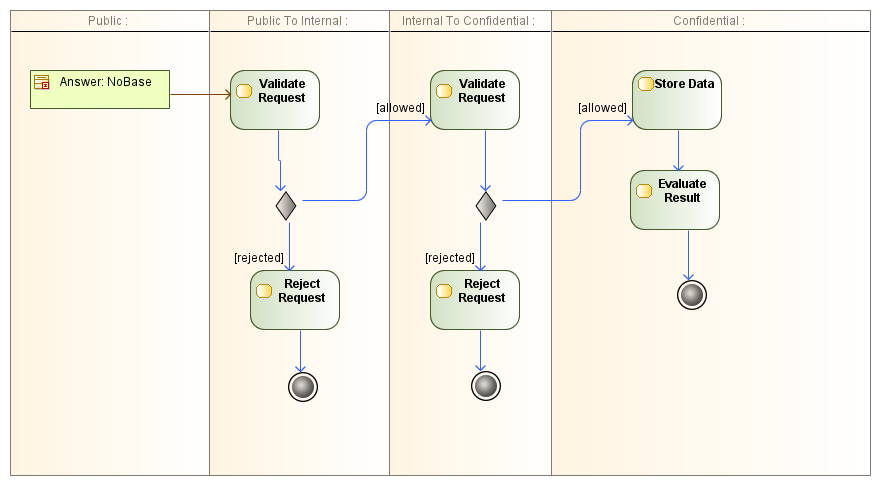
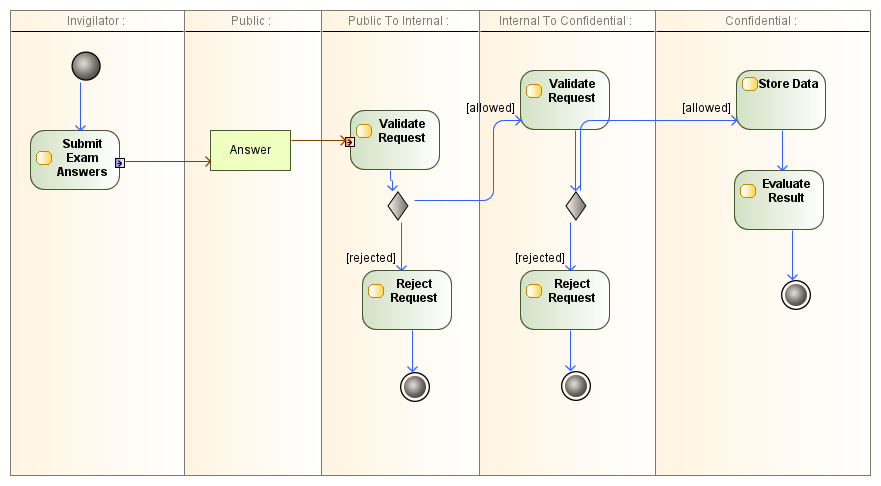
decision algorithm

diff --git a/thesis/chapters/processarchitecture.tex b/thesis/chapters/processarchitecture.tex
@@ -2,7 +2,7 @@
 Aufbauend auf den im Anforderungsprozess ermittelten Attribute, kann nun mit der Architekturplanung begonnen werden.
 
 \section{Erstellen der Minimalen Architektur}
-Das Kontext Diagramm, welches im Anforderungsprozess erstellt worden ist, zeigt das System mit allen Akteuren und Nachbarsystemen. Aufbauend darauf kann nun die minimale Architektur erstellt werden, welche sich aus dem System und den Nachbarsystemen ableitet.
+Das Kontext Diagramm, welches im Anforderungsprozess erstellt worden ist, zeigt das System mit allen AkteurInnen und Nachbarsystemen. Aufbauend darauf kann nun die minimale Architektur erstellt werden, welche sich aus dem System und den Nachbarsystemen ableitet.
 
 \begin{figure}[H]
     \centering
@@ -29,12 +29,12 @@ Dies führt zu folgender Minimalarchitektur:
 Für die Nachbarsysteme wird keine Architektur erstellt, jedoch beinflussen sie die Schnittstellen des Systemes und sind deswegen wichtig für den weiteren Prozes. Sie werden in die Architektur einbezogen und in die niedrigste Vertrautheitsebene eingeteilt.
 
 \section{Erstellen der Datenminimalarchitektur}
-Auf Basis der Vertrautheitskategorien der Daten wird das System der vorher erstellte Minimalarchitektur in ebenso viele Teilsysteme unterteilt. Die Aktivitätsdiagramme werden an die neue Architektur angepasst: Für jedes Untersystem wird in den Diagrammen eine eigene Swimlane erstellt.
+Auf Basis der Vertrautheitskategorien der Daten wird das System der vorher erstellte Minimalarchitektur in ebenso viele Teilsysteme unterteilt. Die Aktivitätsdiagramme werden an die neue Architektur angepasst: Für jedes Untersystem wird in den Diagrammen eine eigene Swimlane erstellt. Die involvierten AkteurInnen sind wenn möglich als eigene Swimlane modelliert, spielen in dieser Phase aber noch keine wichtige Rolle zur Gliederung des Systemes.
 
 \begin{figure}[H]
     \centering
     \includegraphics[scale=0.5]{uml/takeexamactivity1.png}
-    \caption{Die Antworten werden nach der Prüfung an den Certification Body übermittelt. Der Request wird durch zwei Gateways zum finalen System geleitet.}
+    \caption{Die Antworten werden nach der Prüfung an den Certification Body übermittelt. Der Request wird dann durch zwei Gateways zum finalen System geleitet.}
 \end{figure}
 
 Wechselt der Kontrollfluss eine Swimlane, heißt dies, dass eine Verbindung zwischen den beiden sonst abgeschotteten Systemen benötitgt wird. Dieses Verbindung wird als eigenes System modelliert und wird als Gateway bezeichnet. Die Aufgabe dieses Gateways ist es, folgende Attribute der Anfrage zu überprüfen und die Anfrage gegebenenfalls zu verwerfen oder weiterzuleiten:
@@ -57,20 +57,33 @@ Wichtig ist hier, dass keine Gateways unterschiedlicher Vertrautheitsebenen übe
 Da bei der Erstellung des Systems alle Schnittstellen und Systeme bekannt sind, können diese Regeln fest im Gateway verankert werden. Weil diese Gateways unabhängig voneinander agieren, können sie durch das Hinzufügen eines Load Balancers beliebig vervielfacht werden, was sowohl die Ausfallsicherheit als auch die Skalierbarkeit erhöht. Das ist wichtig, weil sie als einzige Verbindung zwischen den Systemen zu einer Art Flaschenhals werden.
 
 
-\section{Einbinden der Akteure}
-Nachdem die Datenminimalarchitektur steht, können nun die Akteure des Systems mit einbezogen werden. Hierfür müssen nun die Objektflüsse des Systems betrachtet werden, welche aus dem Aktivitätsdiagramm ersichtlich sind.
+\section{Einbinden der AkteurInnen}
+Nachdem die Datenminimalarchitektur steht, können nun die AkteurInnen des Systems in die Aufgliederung des Systemes mit einbezogen werden. Hierfür müssen nun die Objektflüsse und die AkteurInnen des Systems für jeden Usecase betrachtet werden, welche aus den vorher bereits erstellten Aktivitätsdiagramm ersichtlich sind.
 
-TODO: modelio objektflüsse zeigen
+Zuerst wird das erste Untersystem, in diesem Falle das Public System, betrachtet. Alle Objektflüsse durch das System und die AkteurInnen, welche mit ihren Swimlanes angrenzen, sind in die Aktivitäten des Systems involviert. Jede Involvierung eines Akteures in ein System erfordert einen Zugang zu diesem System.
 
-Zuerst wird das erste Untersystem, in diesem Falle das Public System, betrachtet. Alle dort eingehenden Anfragen und deren Objekte werden im Moment durch dieses einzelne System verwaltet und gegebenenfalls weiter geleitet, was durch die unterschiedlichen Akteure und deren Vertrautheit in den meisten Fällen ein Sicherheitsproblem darstellt. Deswegen wird das Untersystem in den allermeisten Fällen in weitere Teilsysteme aufgespaltet werden müssen.
+Jeder dieser Akteure muss mit den minimal möglichen Rechten für dieses System ausgestattet werden, um seine Aufgaben zu erfüllen. Dies vermeidet nicht nur Fehler sondern reduziert auch den Schaden, welcher ein potentieller Angriff dieses Akteurs/dieser Akteurin anrichten kann \cite[1. A]{leastpriv}.
 
-Die Grundidee hinter dieser Aufspaltung ist folgende: Je mehr Aufgaben das System übernehmen muss, desto mehr potentielle Angriffsfläche bietet es Angreifern (TODO: zitat). Jeder Akteur der auf das System zugreifen kann, kann das System auch angreifen. Deswegen muss das System so gestaltet sein, dass bei einer kompletten Kontrolle des Systems durch einen Akteur der Schaden so gering wie möglich ausfällt.
+Da ein System komplex ist \cite[S. 7]{softarch}, und diese Sicherheitsattribute nach Änderungen am System immer wieder überprüft werden müssen, stellt jeder zusätzliche Zugriff eines Akteures nicht nur ein Sicherheitsrisiko dar, sondern erhöht auch den Test- und damit den Wartungsaufwand. Idealerweise wird daher jedem/jeder AkteurIn ein eigenes, für sich abgekapseltes System zur Verfügung gestellt, was jedoch meist aufgrund Kosten der zusätzlichen Systeme keine Option dar stellt.
 
-Idealerweise würde deswegen die Anzahl der einzelnen Systeme gleich der Anzahl der Akteure in diesem System sein. Dies hätte jedoch zur Folge, dass auch für triviale Angriffe komplette Systeme entstehen würden, deren Erstellung und Wartung mehr kosten könnten als der tatsächlich daraus resultierende Schaden.
+Deswegen wird nun aufgrund der in der Anforderungsanalyse ermittelten Schadenstabelle eine Aufspaltung in mehrere Systeme nach folgendem Algorithmus vorgenommen, welcher in Abbildung \ref{fig:actordecision} dar gestellt wird.
 
-TODO: algorithmus zur aufspaltung erstellen
+\begin{figure}[H]
+    \centering
+    \includegraphics[scale=0.6]{uml/actordecision.png}
+    \caption{Aufspaltung in mehrere Systeme auf Basis der Schadenskosten}
+    \label{fig:actordecision}
+\end{figure}
 
-TODO: modelio teile des systems, beispielaufteilung zeigen
+Folgende stark Abbildung \ref{}
+
+\begin{figure}[H]
+    \centering
+    \includegraphics[scale=0.6]{uml/actorarch.png}
+    \caption{Vereinfachte Gegenüberstellung von Aktivitätsdiagramme für das Public System}
+    \label{fig:actorarch}
+\end{figure}
+
 
 Ist ein Untersystem fertig aufgespalten, wird nun mit dem nächsten Untersystem fortgefahren, bis alle behandelt wurden.
 

diff --git a/thesis/thesis.tex b/thesis/thesis.tex
@@ -54,6 +54,8 @@
 Vermutung: Gute Architektur häng von guten Anforderungen ab, deswegen muss Anforderungsprozess erweitert werden
 Probleme aufzählen die bei einer schlechten Architektur entstehen.
 
+vielleicht noch genauer spezifizieren dass es keine all round solution werden soll sondern die meisten use cases abdecken soll (grafik wieviel apps SOA haben zb)
+
 \subsection{Gibt es eine Art Kochrezept für die Architekturerstellung}
 Gesucht: Ein Prozess mit dem auf die wichtigen Faktoren eingegangen werden kann.
 
